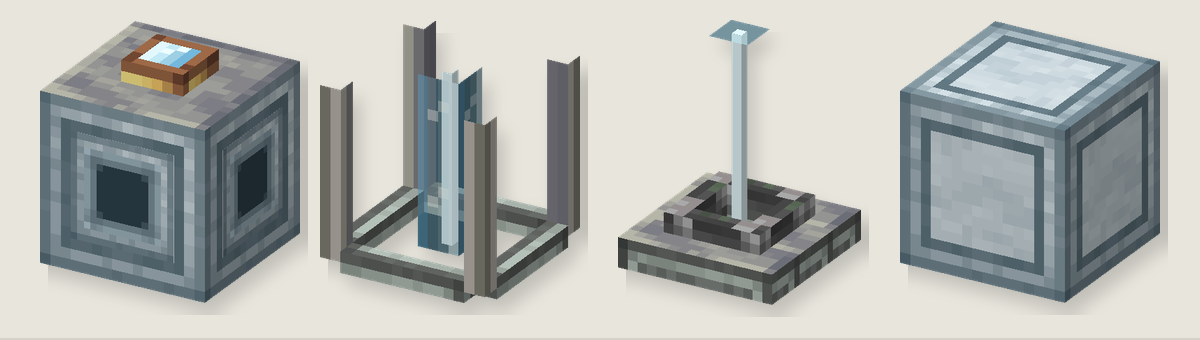
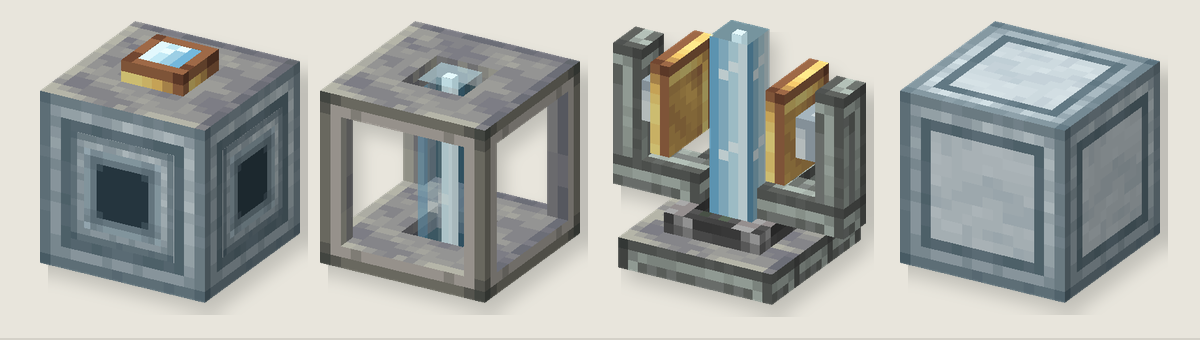
docs: refresh README and release artwork

Changed region(s): [[0.2467, 0.0588, 0.74, 0.7059], [0.2467, 0.5294, 0.4933, 0.9118]]

diff --git a/scripts/render_block.py b/scripts/render_block.py
@@ -262,7 +262,7 @@ def rasterise_triangle(
 
 
 def render(
-    name: str,
+    name: str | list[str] | tuple[str, ...],
     yaw: float = 30,
     pitch: float = 25,
     size: tuple[int, int] = (240, 250),
@@ -271,8 +271,10 @@ def render(
     bs_x: int = 0,
     bs_y: int = 0,
 ) -> Image.Image:
-    """Render a named block model to a PIL Image."""
-    obj = load_model(name)
+    """Render one model, or several co-located partial models, to one depth-buffered image."""
+    model_names = [name] if isinstance(name, str) else list(name)
+    if not model_names:
+        raise ValueError("render() requires at least one model")
     sy, cy = math.sin(math.radians(yaw)), math.cos(math.radians(yaw))
     sp, cp = math.sin(math.radians(pitch)), math.cos(math.radians(pitch))
 
@@ -298,61 +300,63 @@ def render(
 
     # Collect all faces, sort by average depth (painter's sort for transparent)
     faces_to_draw = []
-    for e in obj.get("elements", []):
-        x0, y0, z0 = e["from"]
-        x1, y1, z1 = e["to"]
-        verts_by_face = face_vertices(x0, y0, z0, x1, y1, z1)
-        elem_rot = e.get("rotation")
+    for model_name in model_names:
+        obj = load_model(model_name)
+        for e in obj.get("elements", []):
+            x0, y0, z0 = e["from"]
+            x1, y1, z1 = e["to"]
+            verts_by_face = face_vertices(x0, y0, z0, x1, y1, z1)
+            elem_rot = e.get("rotation")
 
-        for face_name, face_data in e.get("faces", {}).items():
-            raw_verts = verts_by_face[face_name]
-            # Apply element rotation, then blockstate rotation
-            transformed = []
-            for v in raw_verts:
-                p = np.array(v, dtype=np.float64)
-                p = apply_element_rotation(p, elem_rot)
-                p = apply_blockstate_rotation(p, bs_x, bs_y)
-                transformed.append(p)
+            for face_name, face_data in e.get("faces", {}).items():
+                raw_verts = verts_by_face[face_name]
+                # Apply element rotation, then blockstate rotation
+                transformed = []
+                for v in raw_verts:
+                    p = np.array(v, dtype=np.float64)
+                    p = apply_element_rotation(p, elem_rot)
+                    p = apply_blockstate_rotation(p, bs_x, bs_y)
+                    transformed.append(p)
 
-            # Project all 4 vertices
-            proj = [project(v) for v in transformed]
-            pts_2d = np.array([p[0] for p in proj])
-            dps = np.array([p[1] for p in proj])
+                # Project all 4 vertices
+                proj = [project(v) for v in transformed]
+                pts_2d = np.array([p[0] for p in proj])
+                dps = np.array([p[1] for p in proj])
 
-            # Back-face culling: cross product of first triangle
-            edge1 = pts_2d[1] - pts_2d[0]
-            edge2 = pts_2d[2] - pts_2d[0]
-            cross = edge1[0] * edge2[1] - edge1[1] * edge2[0]
-            if cross >= 0:
-                continue
+                # Back-face culling: cross product of first triangle
+                edge1 = pts_2d[1] - pts_2d[0]
+                edge2 = pts_2d[2] - pts_2d[0]
+                cross = edge1[0] * edge2[1] - edge1[1] * edge2[0]
+                if cross >= 0:
+                    continue
 
-            # Compute face normal for shading after rotation
-            v01 = transformed[1] - transformed[0]
-            v02 = transformed[2] - transformed[0]
-            normal = np.cross(v01, v02)
-            norm_len = np.linalg.norm(normal)
-            if norm_len > 1e-8:
-                normal /= norm_len
-            # Use one diffuse shading term, not MC shading multiplied by a
-            # second directional light (which made pale source textures dark).
-            if not elem_rot and not bs_x and not bs_y:
-                shade = FACE_SHADE.get(face_name, 0.8)
-            else:
-                shade = float(normal[0] ** 2 * 0.6 + normal[2] ** 2 * 0.8
-                              + normal[1] ** 2 * FACE_SHADE.get(face_name, 1.0))
-            if obj.get("shade") is False or e.get("shade") is False:
-                shade = 1.0
+                # Compute face normal for shading after rotation
+                v01 = transformed[1] - transformed[0]
+                v02 = transformed[2] - transformed[0]
+                normal = np.cross(v01, v02)
+                norm_len = np.linalg.norm(normal)
+                if norm_len > 1e-8:
+                    normal /= norm_len
+                # Use one diffuse shading term, not MC shading multiplied by a
+                # second directional light (which made pale source textures dark).
+                if not elem_rot and not bs_x and not bs_y:
+                    shade = FACE_SHADE.get(face_name, 0.8)
+                else:
+                    shade = float(normal[0] ** 2 * 0.6 + normal[2] ** 2 * 0.8
+                                  + normal[1] ** 2 * FACE_SHADE.get(face_name, 1.0))
+                if obj.get("shade") is False or e.get("shade") is False:
+                    shade = 1.0
 
-            avg_depth = float(dps.mean())
-            try:
-                tex = resolve_texture(face_data["texture"], obj["textures"])
-            except (KeyError, FileNotFoundError) as exc:
-                print(f"WARN: {exc}", file=sys.stderr)
-                continue
-            uv = face_data.get("uv", [0, 0, 16, 16])
-            uv_rot = face_data.get("rotation", 0) // 90
+                avg_depth = float(dps.mean())
+                try:
+                    tex = resolve_texture(face_data["texture"], obj["textures"])
+                except (KeyError, FileNotFoundError) as exc:
+                    print(f"WARN: {exc}", file=sys.stderr)
+                    continue
+                uv = face_data.get("uv", [0, 0, 16, 16])
+                uv_rot = face_data.get("rotation", 0) // 90
 
-            faces_to_draw.append((avg_depth, pts_2d, dps, tex, uv, shade, uv_rot))
+                faces_to_draw.append((avg_depth, pts_2d, dps, tex, uv, shade, uv_rot))
 
     # Sort: farthest first (painter's sort helps with transparency)
     faces_to_draw.sort(key=lambda f: -f[0])

diff --git a/scripts/render_release_art.py b/scripts/render_release_art.py
@@ -5,6 +5,7 @@ The images produced here deliberately contain no labels or explanatory copy. REA
 Markdown, while the artwork stays a reproducible view of the models that actually ship with the
 mod. Requires Pillow, NumPy and the Create jar configured in ``scripts/render_block.py``.
 """
+from __future__ import annotations
 
 from pathlib import Path
 
@@ -22,7 +23,7 @@ KEY = "#172c33"
 LINE = "#d4d1c8"
 
 
-def cutout(model: str, size=(720, 720), scale=16, yaw=30, pitch=25) -> Image.Image:
+def cutout(model: str | list[str] | tuple[str, ...], size=(720, 720), scale=16, yaw=30, pitch=25) -> Image.Image:
     """Render one shipped model and remove only the renderer's exact chroma-key background."""
     pixels = np.array(render(model, yaw=yaw, pitch=pitch, size=size, scale=scale, bg=KEY))
     pixels[np.all(pixels[:, :, :3] == (23, 44, 51), axis=2), 3] = 0
@@ -31,7 +32,7 @@ def cutout(model: str, size=(720, 720), scale=16, yaw=30, pitch=25) -> Image.Ima
     return image.crop(bbox) if bbox else image
 
 
-def place(canvas: Image.Image, model: str, box, *, scale=16, yaw=30, pitch=25) -> None:
+def place(canvas: Image.Image, model: str | list[str] | tuple[str, ...], box, *, scale=16, yaw=30, pitch=25) -> None:
     """Render a model into a box with a restrained soft shadow."""
     x, y, w, h = box
     model_image = cutout(model, scale=scale, yaw=yaw, pitch=pitch)
@@ -59,6 +60,27 @@ def panel(width: int, height: int) -> Image.Image:
 
 def save_rgb(image: Image.Image, name: str) -> None:
     image.convert("RGB").save(OUT / name, optimize=True)
+
+
+def place_item_texture(canvas: Image.Image, texture: str, box, *, pixel_scale=7) -> None:
+    """Place one shipped 16×16 inventory texture without smoothing its pixel art."""
+    x, y, w, h = box
+    source = ROOT / "src/main/resources/assets/distantstock/textures/item" / f"{texture}.png"
+    icon = Image.open(source).convert("RGBA")
+    assert icon.size == (16, 16), f"README item art expects a 16x16 texture: {source}"
+    size = min(w, h, 16 * pixel_scale)
+    size -= size % 16
+    icon = icon.resize((size, size), Image.Resampling.NEAREST)
+    px = x + (w - size) // 2
+    py = y + (h - size) // 2
+
+    shadow = Image.new("RGBA", canvas.size, (0, 0, 0, 0))
+    alpha = icon.getchannel("A").filter(ImageFilter.GaussianBlur(5))
+    shadow_piece = Image.new("RGBA", icon.size, (40, 45, 43, 44))
+    shadow_piece.putalpha(alpha.point(lambda value: value * 44 // 255))
+    shadow.alpha_composite(shadow_piece, (px + 5, py + 7))
+    canvas.alpha_composite(shadow)
+    canvas.alpha_composite(icon, (px, py))
 
 
 def render_icon() -> None:
@@ -115,8 +137,14 @@ def render_tower() -> None:
     image = panel(1200, 340)
     entries = [
         ("distantstock:block/tower/tower_core", (40, 20, 260, 285), 17),
-        ("distantstock:block/tower/tower_coupler_middle", (320, 20, 260, 285), 17),
-        ("distantstock:block/tower/ether_resonator", (610, 20, 260, 285), 17),
+        # The old README used tower_coupler_middle, which is the intentionally trimmed state used
+        # between neighbours. A standalone component preview must use the complete item/base model.
+        ("distantstock:block/tower/tower_coupler", (320, 20, 260, 285), 17),
+        # The rotor and beam are block-entity partials in game, so they must share the same depth
+        # buffer with the static resonator body or the release preview looks half-built.
+        (("distantstock:block/tower/ether_resonator",
+          "distantstock:block/tower/ether_resonator_beam",
+          "distantstock:block/tower/ether_resonator_rotor"), (610, 20, 260, 285), 17),
         ("distantstock:block/tower/tower_casing_active", (900, 20, 260, 285), 17),
     ]
     for model, box, scale in entries:
@@ -139,6 +167,28 @@ def render_control() -> None:
     save_rgb(image, "control.png")
 
 
+def render_equipment() -> None:
+    """Current wearable gear, portable tanks and one key production intermediate."""
+    image = panel(1200, 340)
+    textures = [
+        "ether_casing_helmet",
+        "ether_casing_chestplate",
+        "ether_casing_leggings",
+        "ether_casing_boots",
+        "portable_fluid_tank_copper",
+        "portable_fluid_tank_sturdy",
+        "portable_fluid_tank_resonant",
+        "resonant_sturdy_sheet",
+    ]
+    margin = 18
+    gap = 8
+    cell = (1200 - 2 * margin - 7 * gap) // 8
+    for index, texture in enumerate(textures):
+        x = margin + index * (cell + gap)
+        place_item_texture(image, texture, (x, 34, cell, 250), pixel_scale=7)
+    save_rgb(image, "equipment.png")
+
+
 def main() -> None:
     OUT.mkdir(parents=True, exist_ok=True)
     render_icon()
@@ -146,6 +196,7 @@ def main() -> None:
     render_logistics()
     render_tower()
     render_control()
+    render_equipment()
     print(OUT)
 
 

diff --git a/README.en.md b/README.en.md
@@ -51,6 +51,7 @@ This makes Distant Stock suitable for a central warehouse, dedicated production 
 - **Interlink Tower infrastructure:** rotationally powered multiblocks provide device coverage, capacity and chunk loading, with optional Ether costs for shipping.
 - **Monitoring and industrial signalling:** monitors, loggers, stack lights, sounders and signal panels can form a practical factory control room.
 - **Diagnostics and buffering:** Diagnostic and Cache Frogports help recover from bad addresses and blocked local routes.
+- **Engineering gear and portable fluids:** the Resonant Quartz suit combines goggles, flight, phase cloaking and medium-powered assistance, while three portable tank tiers carry, transfer and drink fluids.
 - **Persistent hand-off state:** orders, parcels, acknowledgements, retries, returns and quarantine paths are tracked to reduce silent loss and duplicate delivery during interruptions.
 
 ## Devices and items
@@ -102,16 +103,48 @@ With the default configuration, each outgoing cross-server parcel costs the send
 | **Stack Light + Condition Linker** | Sends independent red/yellow/green states and a buzzer-enable signal to an industrial status light. |
 | **Red / Orange Wall Sounders** | Redstone-controlled visual and audible alarms for faults, shortages, stoppages or other factory states. |
 | **Signal Lamps and Panels** | Cyan, orange, red, green, white and brass signal lamps for standalone or quarter-panel installations. |
+| **Brass Announcer** | A local broadcast terminal. Display Link values fill message templates and a redstone rising edge broadcasts to nearby players; template, prefix, sound and range are configurable. |
+| **Network Broadcaster + Network Speaker** | Binds the same template system to a Create logistics network: the broadcaster sends and distributed speakers announce the message to nearby players. |
+| **Nixie Clock** | Displays Minecraft time, accepts dyes for digit colour and switches between 12- and 24-hour display. |
 | **Diagnostic Frogport** | Probes chain-conveyor addresses with Ping parcels and catches unroutable parcels as a diagnostic/quarantine exit. |
 | **Cache Frogport** | Temporarily takes over a blocked business address, stores real parcels and releases them again at a controlled rate after recovery. |
 
 Diagnostic Frogports expose a bottom-only extraction path for bad parcels. Cache Frogports hold 54 real inventory slots rather than a hidden infinite queue. See the [device guide](docs/wiki/设备.md) and [monitoring guide](docs/wiki/监控与日志.md) for the complete recovery behaviour.
 
-### Materials and other content
+### Equipment, portable fluids and materials
 
-Distant Stock includes its own production chain around **Ender Dust, Ether Quartz, Polished Ether Quartz, incomplete and completed Ether Mechanisms, Molten Amethyst and Ether fluid**. Fluids are available in buckets and bottles; recipes and processing steps are documented in the [materials guide](docs/wiki/材料与制作.md).
+![Resonant Quartz equipment and portable fluid tanks](docs/release/assets/equipment.png)
 
-The mod also includes Resonant Quartz armour, the Distant Stock manual, event receipts, logger paper rolls and Ping parcels used by route diagnostics.
+#### Resonant Quartz suit
+
+The Resonant Quartz suit is engineering equipment rather than a simple late-game armour upgrade. Every piece carries an internal working-medium reserve and can refill automatically from portable tanks in the player's inventory using **Ether** or **Molten Amethyst**. Medium-powered assistance turns off when a piece runs dry, while the armour itself remains wearable and can be repaired with Polished Ether Quartz.
+
+| Piece | Standalone capability |
+| --- | --- |
+| **Resonant Quartz Helmet** | Integrates Create Engineer's Goggles, improves underwater breathing and reduces projectile damage by 30%. |
+| **Resonant Quartz Chestplate** | Integrates elytra flight; with medium available it can glide and sustain thrust. Holding a weapon or tool grants +60% base attack power. |
+| **Resonant Quartz Leggings** | Reduces incoming damage by 35% before normal armour mitigation. |
+| **Resonant Quartz Boots** | Grants +25% movement speed and improved jumping. |
+
+With all four pieces equipped, crouching for about **0.5 seconds** enters phase cloak; taking a hit temporarily reveals the wearer. A complete set also provides **immunity to fire and lava damage** and **+2 blocks of interaction reach**. When every piece still has working medium, the set additionally gains **50% damage reduction, +10% movement speed and +15% attack power while holding a weapon or tool**. These bonuses use attributes and damage rules directly rather than potion effects, so the suit does not produce potion particles.
+
+#### Portable fluid tanks
+
+The three portable tank tiers share the same interactions and differ in capacity:
+
+| Tank | Capacity |
+| --- | ---: |
+| **Copper Fluid Tank** | 1500 mB |
+| **Sturdy Fluid Tank** | 3500 mB |
+| **Resonant Fluid Tank** | 5500 mB |
+
+Portable tanks can be filled and drained through Spouts, faucets and block fluid capabilities, including partial-bucket transfers. They deliberately do not place source blocks like buckets. If the stored fluid is drinkable, it can be consumed directly in **250 mB** portions. While carried in the inventory, only Ether and Molten Amethyst are accepted as automatic working medium for the Resonant Quartz suit.
+
+#### Production materials and utility items
+
+The production chain now includes **Ender Dust, Ether Quartz, Polished Ether Quartz, Resonant Sturdy Sheets, Incomplete Resonant Sheets, incomplete and completed Ether Mechanisms, Molten Amethyst and Ether fluid**. Fluids are available in buckets and bottles; Resonant Sturdy Sheets and Ether Mechanisms continue into the suit, Interlink Tower and higher-tier machine recipes. See the [materials guide](docs/wiki/材料与制作.md) for processing details.
+
+The mod also includes the Distant Stock manual, event receipts, logger paper rolls and Ping parcels used by route diagnostics.
 
 ## How Distant Networks are organized
 
@@ -206,7 +239,7 @@ build/Create-Distant-Stock-<version>+mc1.21.1.jar
 
 ## README and release artwork
 
-The project icon and README device illustrations are rendered offline by the repository's Python renderer from the **actual shipped JSON models and PNG textures**. They do not use generative imagery, and the image files contain no added device names, version strings or promotional copy; captions stay in Markdown.
+The project icon and README illustrations are rendered offline from the **actual shipped JSON models and PNG textures**. Devices assembled from block models plus block-entity partials, such as the Interlink Tower, are composed from those shipped partial models in one depth buffer; equipment and tank previews use their shipped inventory textures directly. No generative imagery is used, and the image files contain no added device names, version strings or promotional copy; captions stay in Markdown.
 
 ```bash
 python3 scripts/render_release_art.py

diff --git a/README.md b/README.md
@@ -51,6 +51,7 @@
 - **互通塔基础设施**：旋转动力驱动的多方块塔为附近远仓设备提供覆盖、带载和区块加载能力，并可按包裹消耗以太凝液。
 - **监控与工业信号**：监视器、日志台、工况灯、声光报警器和信号面板用于构建真正可用的控制室。
 - **故障诊断与缓存**：诊断蛙港、缓存蛙港和 Ping 包帮助处理错误地址、链路故障与堵塞恢复。
+- **工程装备与便携流体**：谐振石英护甲把护目镜、滑翔、相位隐身和介质驱动的强化整合为一套装备，三档便携流体罐可携带、转移和饮用流体。
 - **可靠交接**：订单、包裹、确认、重试、退件与隔离都有持久状态，尽量避免网络中断时出现重复投递或无声丢包。
 
 ## 设备与物品
@@ -102,16 +103,48 @@
 | **工况灯 + 工况链接器** | 把红、黄、绿三路状态和独立蜂鸣器使能送到工况灯，适合工厂状态塔和控制室。 |
 | **红/橙声光报警器** | 红石控制的工业告警器，可用于错误包、缺料、停机或其它工况提示。 |
 | **信号灯与信号面板** | 青、橙、红、绿、白和黄铜信号灯，可独立安装或进入四分格面板。 |
+| **黄铜广播器** | 本地广播终端；把显示链接器输入填入消息模板，在红石上升沿向附近玩家播报，可配置模板、前缀、音效与范围。 |
+| **网络广播器 + 网络扬声器** | 将同一套模板广播绑定到 Create 物流网络；广播器负责发送，分布在网络中的扬声器负责向附近玩家播报。 |
+| **辉光管时钟** | 显示 Minecraft 时间；可用染料改变数字颜色，并切换 12/24 小时制。 |
 | **诊断蛙港** | 轮询锁链网络地址、发送 Ping 包，并接管无路由包裹作为诊断和隔离出口。 |
 | **缓存蛙港** | 某个业务地址堵塞时临时接管该地址，保存包裹并在恢复后按红石或定时节流重发。 |
 
 诊断蛙港的错误包可以从底面自动取出；缓存蛙港拥有 54 格真实缓存，不使用隐藏的无限队列。更完整的恢复逻辑见 [设备](docs/wiki/设备.md) 与 [监控与日志](docs/wiki/监控与日志.md)。
 
-### 材料与其它内容
+### 装备、便携流体与材料
 
-远仓还有一套用于制作设备与互通塔的材料链，包括 **末影粉、以太石英、磨制以太石英、半成品以太构件、以太构件、熔融紫水晶和以太凝液**。流体提供桶装与瓶装形式，配方与加工流程见 [材料与制作](docs/wiki/材料与制作.md)。
+![谐振石英装备与便携流体罐](docs/release/assets/equipment.png)
 
-模组同时包含谐振石英护甲、远仓手册、事件记录、小票纸卷和用于诊断链路的 Ping 包等辅助物品。
+#### 谐振石英护甲
+
+谐振石英护甲不是单纯提高护甲值的后期套装，而是一套带有工作介质储备的工程装备。四件装备都可以由背包中的便携流体罐自动补充 **以太凝液** 或 **熔融紫水晶**；介质耗尽后，依赖充能的强化会停止，但护甲本身仍可继续穿戴，并可使用磨制以太石英维修。
+
+| 部位 | 独立能力 |
+| --- | --- |
+| **谐振石英头盔** | 集成 Create 工程师护目镜；水下呼吸能力提高，受到的弹射物伤害降低 30%。 |
+| **谐振石英胸甲** | 集成鞘翅；有介质时可滑翔并持续推进。手持武器或工具时，基础攻击能力提高 60%。 |
+| **谐振石英护腿** | 受到的伤害降低 35%，与原有护甲减伤继续叠加。 |
+| **谐振石英靴子** | 移动速度提高 25%，并提高跳跃能力。 |
+
+穿齐四件后，潜行约 **0.5 秒**进入相位隐身；受击会暂时显形。完整套装同时提供 **火焰与岩浆伤害免疫**以及 **+2 格交互距离**。当四件装备都还有介质时，还会获得额外的 **50% 伤害减免、10% 移动速度和 15% 持械攻击加成**。这些强化直接使用属性与伤害规则实现，不产生药水粒子。
+
+#### 便携流体罐
+
+三档流体罐使用同一套交互逻辑，但容量不同：
+
+| 流体罐 | 容量 |
+| --- | ---: |
+| **铜流体罐** | 1500 mB |
+| **坚固流体罐** | 3500 mB |
+| **谐振流体罐** | 5500 mB |
+
+流体罐可以通过注液器、水龙头和设备流体接口装填或转移任意兼容流体，并允许不足一桶的精确转移；它们不会像水桶一样直接在世界中放置流体。内容物如果属于可饮用流体，也可以直接饮用，每次消耗 **250 mB**。放在背包里时，只有以太凝液和熔融紫水晶会被护甲当作工作介质自动抽取。
+
+#### 材料链与辅助物品
+
+远仓的生产链包括 **末影粉、以太石英、磨制以太石英、谐振坚固板、谐振板坯、半成品以太构件、以太构件、熔融紫水晶和以太凝液**。流体提供桶装与瓶装形式；谐振坚固板和以太构件会继续进入护甲、互通塔与高级设备的加工流程。具体配方见 [材料与制作](docs/wiki/材料与制作.md)。
+
+模组还包含远仓手册、事件记录、小票纸卷，以及用于诊断链路的 Ping 包等辅助物品。
 
 ## 远仓网络是怎么组织的？
 
@@ -206,7 +239,7 @@ build/Create-Distant-Stock-<version>+mc1.21.1.jar
 
 ## README 与发布插图
 
-README 使用的模组图标和设备插图全部由项目内的 Python 渲染器从**实际发布的 JSON 模型与 PNG 材质**离线生成，不使用生成式图片。图片本身不写设备名、版本号或宣传文字，说明统一保留在 Markdown 中。
+README 使用的模组图标和设备插图全部由项目内的 Python 渲染器从**实际发布的 JSON 模型与 PNG 材质**离线生成，不使用生成式图片。对于互通塔这类由方块模型与 Block Entity 部件共同组成的设备，渲染器会把实际发布的 partial model 放进同一个深度缓冲中合成；装备与流体罐则直接使用发布包中的物品材质。图片本身不写设备名、版本号或宣传文字，说明统一保留在 Markdown 中。
 
 ```bash
 python3 scripts/render_release_art.py

diff --git a/docs/release/assets/README.md b/docs/release/assets/README.md
@@ -7,11 +7,12 @@
 - `logistics.png`：请求、自动化与跨服运输设备。
 - `tower.png`：互通塔组件。
 - `control.png`：监控、告警与诊断设备。
+- `equipment.png`：谐振石英护甲、三档便携流体罐与关键加工材料。
 - `src/main/resources/distantstock-icon.png`：同一图标的 256 像素版本，供 NeoForge 模组列表使用。
 
 插图本身不写设备名、版本号、宣传语或“离线渲染”等说明文字；所有说明都由 README 的 Markdown 承担。图片只负责展示模型，因此以后模型和材质修改后可以直接重新渲染，而不需要手工编辑图中文字。
 
-图标中央为正式物品模型 `distantstock:item/remote_package`，双向箭头为 Pillow 绘制的几何图形。设备插图是静态离线模型展示，不包含游戏中的动画、UI、动态包裹和方块实体附加渲染，不应当作游戏截图。
+图标中央为正式物品模型 `distantstock:item/remote_package`，双向箭头为 Pillow 绘制的几何图形。设备插图是静态离线模型展示，不包含游戏中的动画、UI 或动态包裹，不应当作游戏截图。对于像以太谐振器这样把主体与 Block Entity partial model 分开渲染的设备，脚本会把正式发布的部件放进同一个深度缓冲中合成，避免发布图缺少转子、光柱等实际可见结构。装备图直接使用正式物品材质。
 
 复现命令：
 
